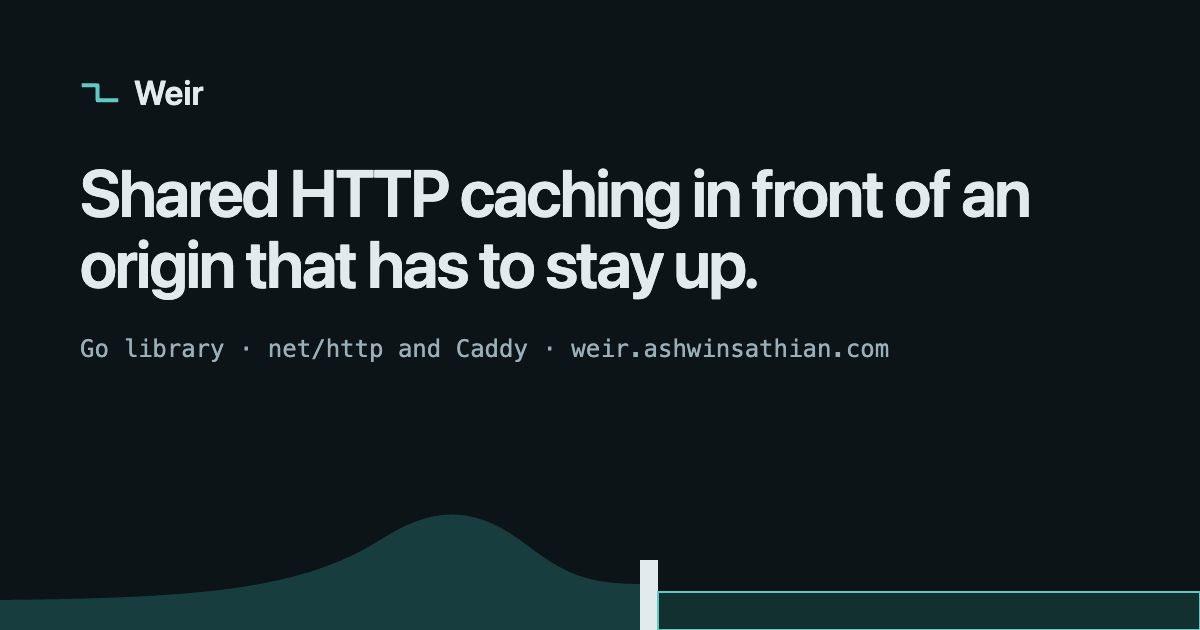
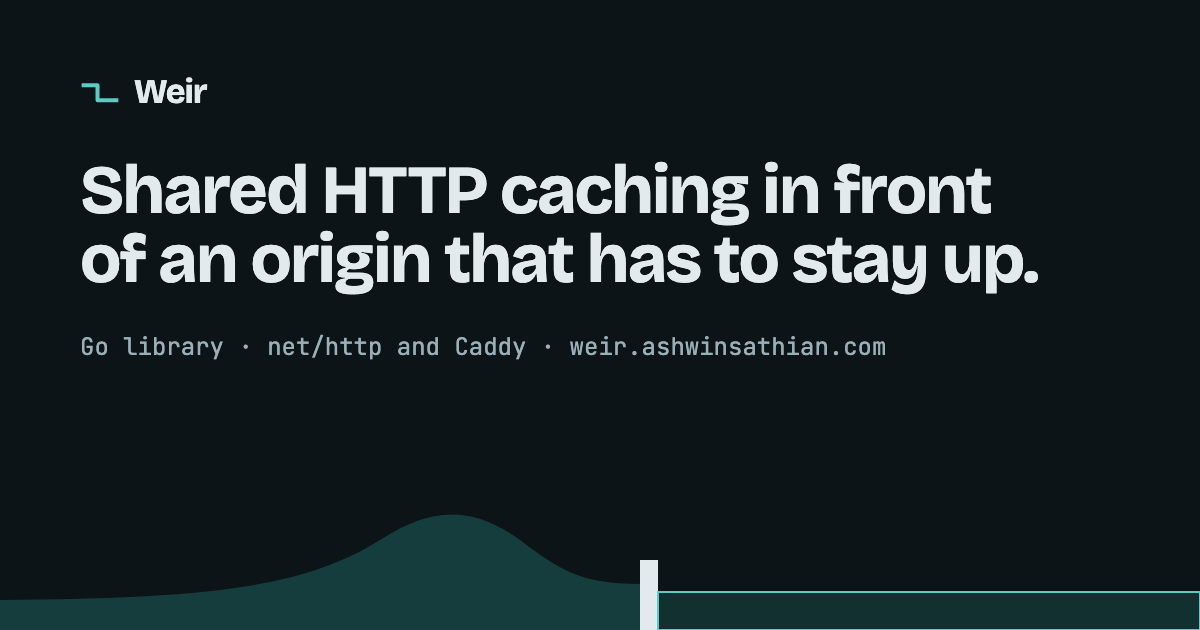
feat(site): switch to Bricolage Grotesque, Figtree and JetBrains Mono (#158)
Replace IBM Plex with the variable font system shared with the owner's
other sites, self-hosted from @fontsource-variable (5.3.0, pinned).
Bricolage Grotesque sets headings and the wordmark, Figtree sets body
text and form controls, JetBrains Mono sets code, commands, the
terminal transcript, labels, table heads and chart text. The IBM Plex
packages are removed.

postbuild.mjs preloads the latin heading and body files on every page
and fails the build if the bundler stops emitting them. Headings are
700 with tracking that eases from -0.03em at display sizes to -0.01em
at h3. Code turns ligatures off so operators show as typed, and tables
and charts use tabular figures. public/og.png is regenerated from
scripts/og.html, which now loads the fonts from node_modules.

The site README's design section records the change and the rules.

diff --git a/site/styles/site.css b/site/styles/site.css
@@ -4,8 +4,10 @@
   --accent: #5fc9c3; --accent-soft: #12302f; --on-accent: #06211f;
   --warn: #f0c466; --warn-soft: #2b2310; --danger: #ff9494; --danger-soft: #331517; --water: #1f5f5f;
 
-  --sans: 'IBM Plex Sans', system-ui, -apple-system, 'Segoe UI', sans-serif;
-  --mono: 'IBM Plex Mono', ui-monospace, 'SF Mono', Menlo, Consolas, monospace;
+  /* Bricolage Grotesque for headings, Figtree for text and controls, JetBrains Mono for code and data. */
+  --display: 'Bricolage Grotesque Variable', 'Bricolage Grotesque', 'Figtree Variable', 'Figtree', system-ui, sans-serif;
+  --sans: 'Figtree Variable', 'Figtree', system-ui, -apple-system, 'Segoe UI', Roboto, sans-serif;
+  --mono: 'JetBrains Mono Variable', 'JetBrains Mono', ui-monospace, SFMono-Regular, Menlo, Consolas, monospace;
 
   --s1: 4px; --s2: 8px; --s3: 12px; --s4: 16px; --s5: 24px; --s6: 32px; --s7: 48px; --s8: 72px; --s9: 112px;
   --radius: 6px;
@@ -26,7 +28,7 @@ body {
   margin: 0;
   background: var(--bg);
   color: var(--ink);
-  font: 400 17px/1.65 var(--sans);
+  font: 400 17px/1.5 var(--sans);
   text-rendering: optimizeLegibility;
 }
 @media (prefers-reduced-motion: no-preference) { html { scroll-behavior: smooth; } }
@@ -34,9 +36,14 @@ body {
 a { color: var(--accent); text-underline-offset: 3px; text-decoration-thickness: 1px; }
 a:hover { text-decoration-thickness: 2px; }
 :focus-visible { outline: 2px solid var(--accent); outline-offset: 2px; border-radius: 2px; }
-h1, h2, h3, h4 { font-weight: 600; line-height: 1.2; letter-spacing: -0.012em; text-wrap: balance; margin: 0; }
+h1, h2, h3, h4 { font-family: var(--display); font-weight: 700; line-height: 1.1; letter-spacing: -0.03em; text-wrap: balance; margin: 0; }
+/* Tracking eases as size drops: -0.03em suits display sizes and crowds a 17px heading. */
+h2 { line-height: 1.15; letter-spacing: -0.02em; }
+h3, h4 { line-height: 1.25; letter-spacing: -0.01em; }
 p { margin: 0 0 var(--s4); text-wrap: pretty; }
-code, kbd, pre, samp { font-family: var(--mono); font-size: 0.875em; tab-size: 4; }
+button, input, select, textarea { font: inherit; }
+/* No ligatures in code: a reader must see the characters typed (!= and => stay two glyphs). */
+code, kbd, pre, samp { font-family: var(--mono); font-size: 0.86em; tab-size: 4; font-variant-ligatures: none; }
 :not(pre) > code { background: var(--sunken); padding: 0.1em 0.35em; border-radius: 3px; overflow-wrap: anywhere; }
 img, svg { max-width: 100%; }
 hr { border: 0; border-top: 1px solid var(--line); margin: var(--s7) 0; }
@@ -52,7 +59,7 @@ hr { border: 0; border-top: 1px solid var(--line); margin: var(--s7) 0; }
 /* Header */
 .site-header { position: sticky; top: 0; z-index: 20; background: color-mix(in srgb, var(--bg) 92%, transparent); backdrop-filter: blur(8px); border-bottom: 1px solid var(--line); }
 .site-header .wrap { display: flex; align-items: center; gap: var(--s5); height: 60px; }
-.logo { display: inline-flex; align-items: center; gap: var(--s2); color: var(--ink); text-decoration: none; font: 600 1.15rem/1 var(--sans); letter-spacing: -0.01em; }
+.logo { display: inline-flex; align-items: center; gap: var(--s2); color: var(--ink); text-decoration: none; font: 700 1.2rem/1 var(--display); letter-spacing: -0.03em; }
 .logo svg { color: var(--accent); }
 .site-nav { display: none; gap: var(--s5); margin-left: var(--s4); flex: 1; }
 .site-nav a { color: var(--muted); text-decoration: none; font-size: 0.95rem; }
@@ -82,7 +89,7 @@ hr { border: 0; border-top: 1px solid var(--line); margin: var(--s7) 0; }
 /* Home */
 .hero { padding: var(--s8) 0 var(--s7); display: grid; gap: var(--s7); align-items: start; }
 @media (min-width: 960px) { .hero { grid-template-columns: minmax(0, 1fr) minmax(0, 1.05fr); padding-top: var(--s9); } }
-.hero h1 { font-size: clamp(2.1rem, 5vw, 3.25rem); letter-spacing: -0.03em; line-height: 1.08; margin: var(--s4) 0 var(--s5); }
+.hero h1 { font-size: clamp(2.1rem, 5vw, 3.25rem); line-height: 1.02; margin: var(--s4) 0 var(--s5); }
 .hero .lede { font-size: 1.15rem; color: var(--muted); max-width: 34em; }
 .hero .actions { display: flex; flex-wrap: wrap; gap: var(--s3); margin: var(--s6) 0 var(--s5); }
 .cmd { display: flex; align-items: center; gap: var(--s3); background: var(--surface); border: 1px solid var(--line); border-radius: var(--radius); padding: 8px 8px 8px 14px; font: 400 0.85rem/1.4 var(--mono); max-width: 100%; }
@@ -167,7 +174,7 @@ figure { margin: var(--s6) 0; }
 .page.wide { max-width: var(--page); }
 .breadcrumbs { font: 400 0.78rem var(--mono); color: var(--muted); margin-bottom: var(--s4); display: flex; flex-wrap: wrap; gap: var(--s2); }
 .breadcrumbs a { color: var(--muted); }
-.page-head h1 { font-size: clamp(1.9rem, 4vw, 2.5rem); letter-spacing: -0.025em; }
+.page-head h1 { font-size: clamp(1.9rem, 4vw, 2.5rem); line-height: 1.05; }
 .page-head .lede { font-size: 1.12rem; color: var(--muted); margin: var(--s4) 0 0; }
 .page-head { padding-bottom: var(--s5); margin-bottom: var(--s6); border-bottom: 1px solid var(--line); }
 .page-foot { margin-top: var(--s8); padding-top: var(--s5); border-top: 1px solid var(--line); display: flex; flex-wrap: wrap; justify-content: space-between; gap: var(--s4); font-size: 0.9rem; color: var(--muted); }
@@ -178,6 +185,7 @@ figure { margin: var(--s6) 0; }
 .pager .label { display: block; margin-bottom: var(--s1); }
 
 /* Prose (rendered Markdown) */
+.prose { line-height: 1.65; }
 .prose > :first-child { margin-top: 0; }
 .prose h2 { font-size: 1.5rem; margin: var(--s7) 0 var(--s4); }
 .prose h3 { font-size: 1.17rem; margin: var(--s6) 0 var(--s3); }
@@ -195,7 +203,7 @@ figure { margin: var(--s6) 0; }
 @media (hover: none) { .copy { opacity: 1; } }
 
 .table-wrap { overflow-x: auto; margin: 0 0 var(--s5); border: 1px solid var(--line); border-radius: var(--radius); background: var(--surface); }
-table { border-collapse: collapse; width: 100%; font-size: 0.9rem; line-height: 1.5; }
+table { border-collapse: collapse; width: 100%; font-size: 0.9rem; line-height: 1.5; font-variant-numeric: tabular-nums; }
 th { text-align: left; font: 500 0.72rem/1.4 var(--mono); letter-spacing: 0.06em; text-transform: uppercase; color: var(--muted); background: var(--sunken); white-space: nowrap; }
 th, td { padding: 10px 14px; border-bottom: 1px solid var(--line); vertical-align: top; }
 tr:last-child td { border-bottom: 0; }
@@ -229,7 +237,7 @@ dialog.search::backdrop { background: rgb(0 0 0 / 0.45); }
 .pagefind-ui { --pagefind-ui-primary: var(--accent); --pagefind-ui-text: var(--ink); --pagefind-ui-background: var(--surface); --pagefind-ui-border: var(--line); --pagefind-ui-tag: var(--sunken); --pagefind-ui-font: var(--sans); --pagefind-ui-scale: 0.85; }
 
 /* Diagrams share one vocabulary. */
-.dg { font-family: var(--mono); }
+.dg { font-family: var(--mono); font-variant-numeric: tabular-nums; }
 .dg .axis { stroke: var(--line); stroke-width: 1; }
 .dg .ink { fill: var(--ink); }
 .dg .mut { fill: var(--muted); }

diff --git a/site/scripts/og.html b/site/scripts/og.html
@@ -2,12 +2,15 @@
 <!-- Source of public/og.png. Open at 1200x630 and screenshot; see site/README.md. -->
 <meta charset="utf-8">
 <style>
-  @font-face { font-family: P; src: local('IBM Plex Sans SemiBold'), local('IBM Plex Sans'); }
-  html, body { margin: 0; width: 1200px; height: 630px; background: #0d1418; color: #e2eaee; font-family: 'IBM Plex Sans', system-ui, sans-serif; }
+  /* The site's fonts, read from node_modules after pnpm install. */
+  @font-face { font-family: 'Bricolage Grotesque Variable'; font-weight: 200 800; src: url(../node_modules/@fontsource-variable/bricolage-grotesque/files/bricolage-grotesque-latin-wght-normal.woff2) format('woff2'); }
+  @font-face { font-family: 'Figtree Variable'; font-weight: 300 900; src: url(../node_modules/@fontsource-variable/figtree/files/figtree-latin-wght-normal.woff2) format('woff2'); }
+  @font-face { font-family: 'JetBrains Mono Variable'; font-weight: 100 800; src: url(../node_modules/@fontsource-variable/jetbrains-mono/files/jetbrains-mono-latin-wght-normal.woff2) format('woff2'); }
+  html, body { margin: 0; width: 1200px; height: 630px; background: #0d1418; color: #e2eaee; font-family: 'Figtree Variable', system-ui, sans-serif; }
   .w { padding: 72px 80px; }
-  .logo { display: flex; align-items: center; gap: 14px; font-size: 34px; font-weight: 600; }
-  h1 { font-size: 66px; line-height: 1.08; letter-spacing: -0.03em; margin: 44px 0 0; max-width: 960px; font-weight: 600; }
-  p { font: 24px ui-monospace, 'IBM Plex Mono', Menlo, monospace; color: #9bafb9; margin: 36px 0 0; }
+  .logo { display: flex; align-items: center; gap: 14px; font: 700 34px/1 'Bricolage Grotesque Variable', system-ui, sans-serif; letter-spacing: -0.03em; }
+  h1 { font: 700 68px/1.02 'Bricolage Grotesque Variable', system-ui, sans-serif; letter-spacing: -0.03em; margin: 44px 0 0; max-width: 960px; text-wrap: balance; }
+  p { font: 24px 'JetBrains Mono Variable', ui-monospace, Menlo, monospace; font-variant-ligatures: none; color: #9bafb9; margin: 36px 0 0; }
   svg.h { position: absolute; left: 0; bottom: 0; }
 </style>
 <div class="w">

diff --git a/site/app/layout.tsx b/site/app/layout.tsx
@@ -1,9 +1,8 @@
 import type { Metadata, Viewport } from 'next'
-import '@fontsource/ibm-plex-sans/400.css'
-import '@fontsource/ibm-plex-sans/500.css'
-import '@fontsource/ibm-plex-sans/600.css'
-import '@fontsource/ibm-plex-mono/400.css'
-import '@fontsource/ibm-plex-mono/500.css'
+// Variable fonts, self-hosted (SIL OFL 1.1): one file per subset covers every weight.
+import '@fontsource-variable/bricolage-grotesque'
+import '@fontsource-variable/figtree'
+import '@fontsource-variable/jetbrains-mono'
 import '@/styles/site.css'
 import { Footer, Header } from '@/components/chrome'
 import { Enhance } from '@/components/client'

diff --git a/site/README.md b/site/README.md
@@ -79,7 +79,7 @@ make site-deploy BRANCH=site-launch # a preview URL
 
 Security headers are in two places because a static export has inline bootstrap scripts. `scripts/postbuild.mjs` writes a Content-Security-Policy `<meta>` into each page with the SHA-256 of that page's inline scripts (no `unsafe-inline` for scripts), and writes `out/_headers` for the headers a `<meta>` cannot set. Styles allow `unsafe-inline` because the syntax highlighter and the search UI set style attributes.
 
-No analytics, no cookies, no third-party requests. Fonts are self-hosted from `@fontsource`.
+No analytics, no cookies, no third-party requests. Fonts are self-hosted from `@fontsource-variable` (SIL Open Font License 1.1), and `scripts/postbuild.mjs` preloads the latin files for headings and body text.
 
 `public/.well-known/security.txt` points vulnerability reports to GitHub's private reporting. Its `Expires` line is one year out: move it forward with each release, and before 2027-10-23 at the latest.
 
@@ -87,7 +87,13 @@ Cloudflare must not inject anything into the pages: with Bot Fight Mode's JavaSc
 
 ## Design
 
-Dark by default with a stored light override. IBM Plex Sans and IBM Plex Mono. One accent (teal), amber only for "takes a protection back", red only for cautions. Tokens are at the top of `styles/site.css`.
+Dark by default with a stored light override. One accent (teal), amber only for "takes a protection back", red only for cautions. Tokens are at the top of `styles/site.css`.
+
+Type, changed on 2026-11-09 from IBM Plex to the font system shared with the owner's other sites:
+
+- Bricolage Grotesque (`--display`) for headings and the wordmark: weight 700, tracking -0.03em, line height 1.02 to 1.1 for page titles and 1.25 for small headings.
+- Figtree (`--sans`) for body text and every form control (`font: inherit`). Line height 1.5, and 1.65 in long-form prose.
+- JetBrains Mono (`--mono`) for code, commands, the terminal transcript, IDs, table heads, labels, chart text and headline figures. Ligatures are off in code, so `!=` and `=>` show the characters a reader would type. Tables and charts use tabular figures so numbers line up.
 
 Design references looked at on 2026-10-12, desktop, before choosing:
 
@@ -101,7 +107,7 @@ Design references looked at on 2026-10-12, desktop, before choosing:
 
 The home page figure (demand against origin load across a weir) is the one piece of imagery. Its shape is a schematic and its labels are measured numbers; keep it that way.
 
-`public/og.png` is a 1200x630 screenshot of `scripts/og.html`.
+`public/og.png` is a 1200x630 screenshot of `scripts/og.html`, taken after `pnpm install` because the page loads the fonts from `node_modules`.
 
 ## What is not here, on purpose
 
